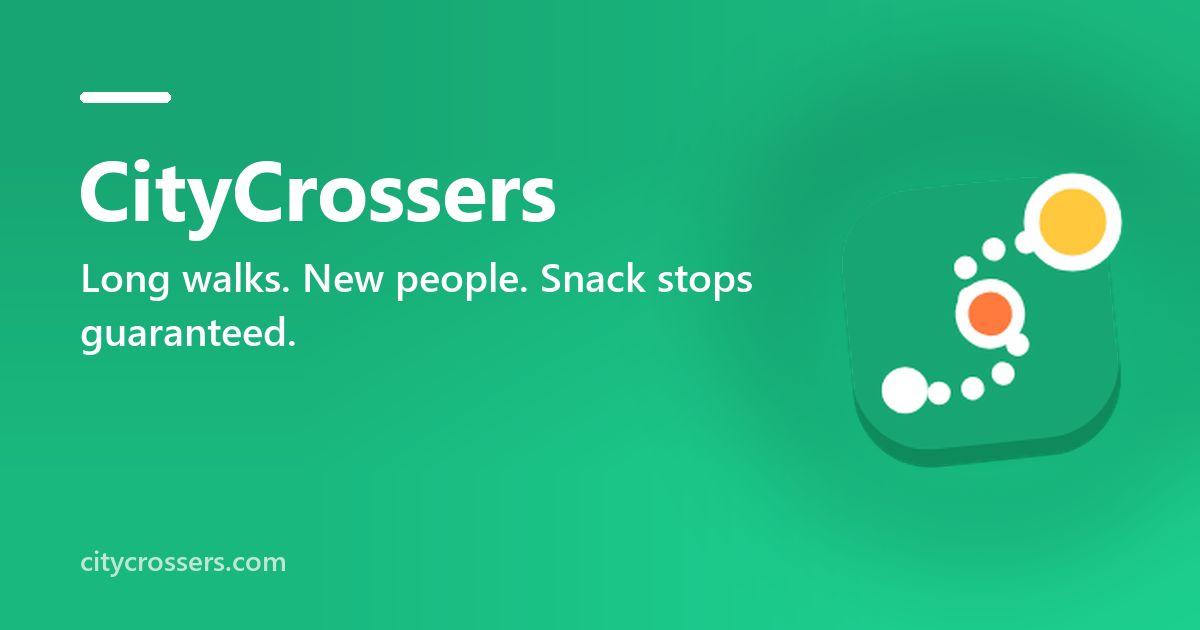
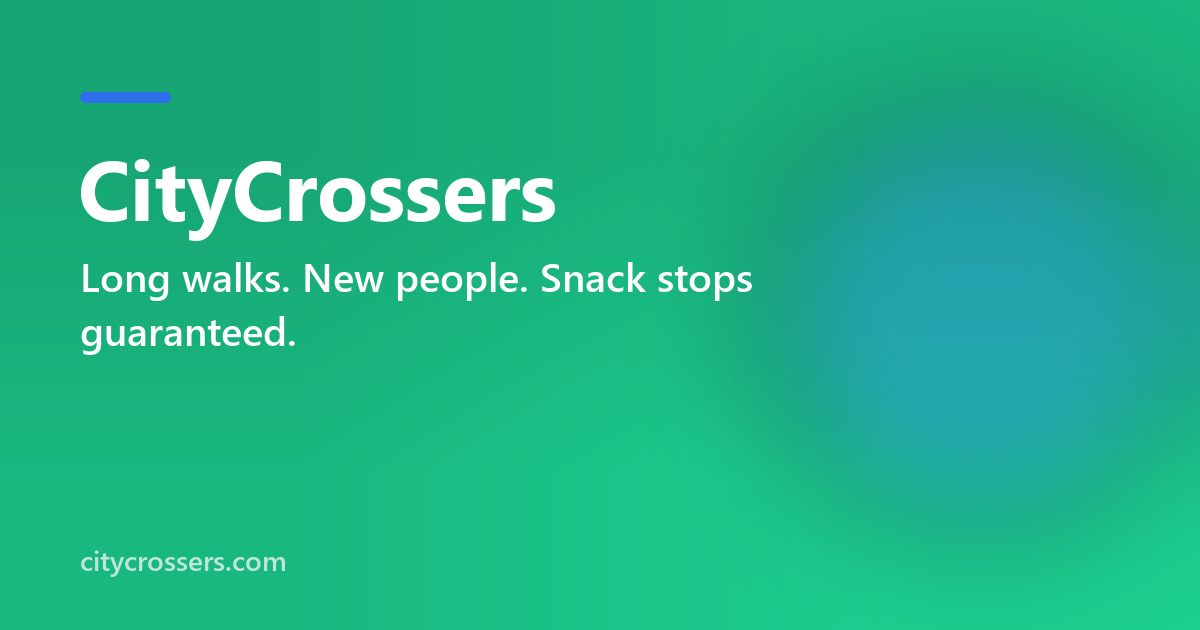
SEO: valid schema.org fields (availableLanguage on ServiceChannel, no browserRequirements on games)

Changed region(s): [[0.6475, 0.2111, 1.0, 0.7841], [0.0617, 0.1206, 0.1542, 0.181]]

diff --git a/server_code/seo_routes.py b/server_code/seo_routes.py
@@ -60,11 +60,11 @@ SEO = {
  ],
  "site": "https://citycrossers.com",
  "updated": "2026-11-09",
- "icon": "favicon.png",
+ "icon": "icon-512.png",
  "colors": {
   "bg": "#17A673",
   "ink": "#ffffff",
-  "brand": "#0c9c6c",
+  "brand": "#2f6fed",
   "on": "#ffffff"
  }
 }
@@ -148,18 +148,25 @@ def _ld(o):
         app["serviceType"] = s.get("service_type", s.get("tagline", s["title"]))
         app["provider"] = {"@id": "https://arkvital.com/#org"}
         app["areaServed"] = "Worldwide"
-        app["availableChannel"] = {"@type": "ServiceChannel", "serviceUrl": o + "/", "name": "Web browser"}
+        # availableLanguage belongs on the channel (schema.org has no Service.availableLanguage)
+        app["availableChannel"] = {"@type": "ServiceChannel", "serviceUrl": o + "/", "name": "Web browser",
+                                   "availableLanguage": s.get("lang", "en")}
         del app["inLanguage"], app["publisher"], app["keywords"]
-        app["availableLanguage"] = s.get("lang", "en")
+    if app["@type"] == "ProfessionalService":
+        # an Organization: knowsLanguage, not inLanguage (a CreativeWork field)
+        app["knowsLanguage"] = app.pop("inLanguage")
+        del app["publisher"]
     if app["@type"] in ("WebApplication", "VideoGame"):
         app["applicationCategory"] = s.get("category", "WebApplication")
         app["operatingSystem"] = "Any (web browser)"
+    if app["@type"] == "WebApplication":
         app["browserRequirements"] = "Requires JavaScript and a modern web browser"
+    if app["@type"] in ("WebApplication", "VideoGame"):
         if s.get("features"):
             app["featureList"] = s["features"]
     if s.get("free"):
         app["offers"] = {"@type": "Offer", "price": "0", "priceCurrency": "CAD"}
-    if s.get("audience"):
+    if s.get("audience") and app["@type"] != "ProfessionalService":
         app["audience"] = {"@type": "Audience", "audienceType": s["audience"]}
     page = {"@type": "AboutPage", "@id": o + "/about#page", "url": o + "/about", "name": "About " + s["name"],
             "about": {"@id": o + "/#app"}, "isPartOf": {"@id": o + "/#site"}}
